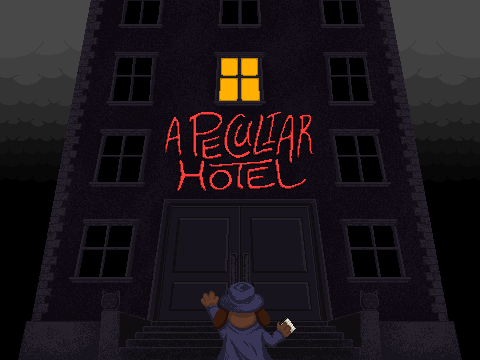
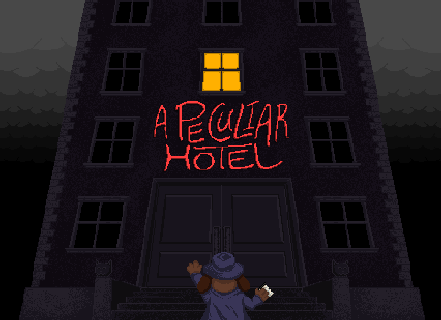
lobby polish, and menu scene in (new)

diff --git a/src/scenes/Menu.js b/src/scenes/Menu.js
@@ -6,7 +6,8 @@ class Menu extends Phaser.Scene{
 
     preload(){
         //this.load.atlas('particle', './assets/particle.png','./assets/particleJSON.json');
-        this.load.image('BG', './assets/HauntedHotelMenu.png');
+        this.load.image('BG', './assets/titleScene.png');
+        this.load.image('BG_start', './assets/titleSceneEnterHover.png');
         this.load.image('player', './assets/Detective Doggert 001.png');
         this.load.image('button', './assets/ElevatorButton.png');
         this.load.image('rain', './assets/Rain.png');
@@ -15,8 +16,8 @@ class Menu extends Phaser.Scene{
     create(){
         const textures = this.textures;
         this.background = this.add.image(game.config.width/2, game.config.height/2, 'BG');
-        this.startBtn = this.add.sprite(game.config.width/2.35, game.config.height/1.4, 'start').setInteractive();
-        const origion = this.startBtn.getTopLeft();
+        this.startBtn = this.physics.add.sprite(320, 240).setInteractive();
+        this.startBtn.setSize(130,110);
         
         this.imageSource = {
             getRandomPoint: function(vec){
@@ -67,16 +68,17 @@ class Menu extends Phaser.Scene{
         //States for state machine will be declared here. 
         this.test = 5;
 
-        //this.startBtn.on('pointerover', function (event) {}, this);
-        //this.startBtn.on('pointerout', function (event) {}, this);
-        //this.floorList = ['Floor_1', 'Floor_2'];
-        //this.randFloor = Phaser.Math.Between(0, 1);
+        this.startBtn.on('pointerover', function (event) {
+            this.background.setTexture('BG_start',0)
+        }, this);
+        this.startBtn.on('pointerout', function (event) {
+            this.background.setTexture('BG',0)
+        }, this);
+
         noteBookKey = this.input.keyboard.addKey(Phaser.Input.Keyboard.KeyCodes.R);
         this.startBtn.on('pointerdown', function (event) {this.scene.start('Lobby', {test: this.test}); },this); // Start game on click.
 
         this.style = { font: "15px Arial", fill: "#ffff00", align: "center" };
-
-        this.text = this.add.text(game.config.width/8, game.config.height/1.2, "Haunted Hotel\nMove with WASD\nR to go to notebook to draw, T to clear notebook, Y to go back to scene", this.style);
     }
     update(){
         

diff --git a/src/scenes/lobby.js b/src/scenes/lobby.js
@@ -11,7 +11,7 @@ class Lobby extends Phaser.Scene{
     }
     ///////////////////////////
     preload(){
-        this.load.image('player', './assets/Detective Doggert 001.png');
+        this.load.image('player', './assets/idleForward.png');
         this.load.image('lobbytiles', './assets/Lobby_Tiles.png');
         this.load.image('front_desk', './assets/front_desk.png');
         this.load.image('front_desk_Lit', './assets/front_desk_Lit.png');
@@ -144,7 +144,7 @@ class Lobby extends Phaser.Scene{
         this.elevator.body.immovable = true;
         this.elevator.body.offset.y = 0.5;
         this.createObjects();
-        this.player = new Player(this, game.config.width/2 - 12, game.config.height + 150, 'player', 0);
+        this.player = new Player(this, game.config.width/2 - 12, game.config.height + 250, 'playerIdleUP', 0);
         map.createLayer('abovePlayer', tileset);
         this.physics.add.collider(this.player, walls);
         this.physics.add.collider(this.player, props);

diff --git a/src/main.js b/src/main.js
@@ -5,7 +5,7 @@ let config = {
     width: 640,
     height: 320,
     pixelArt: true,
-    scene: [Lobby, Floor_4, Elevator, Floor_2, Menu, Floor_1, Floor_3, Floor_1_OTHER, Floor_2_OTHER, Floor_3_OTHER, Floor_4_OTHER, Drawing, Floor_0],
+    scene: [Menu, Lobby, Floor_4, Elevator, Floor_2, Floor_1, Floor_3, Floor_1_OTHER, Floor_2_OTHER, Floor_3_OTHER, Floor_4_OTHER, Drawing, Floor_0],
 
     //3 is ballroom, 1 is square patrolling ghost, 2 is long corridor, 4 is following ghosts
     // variables for states in game
